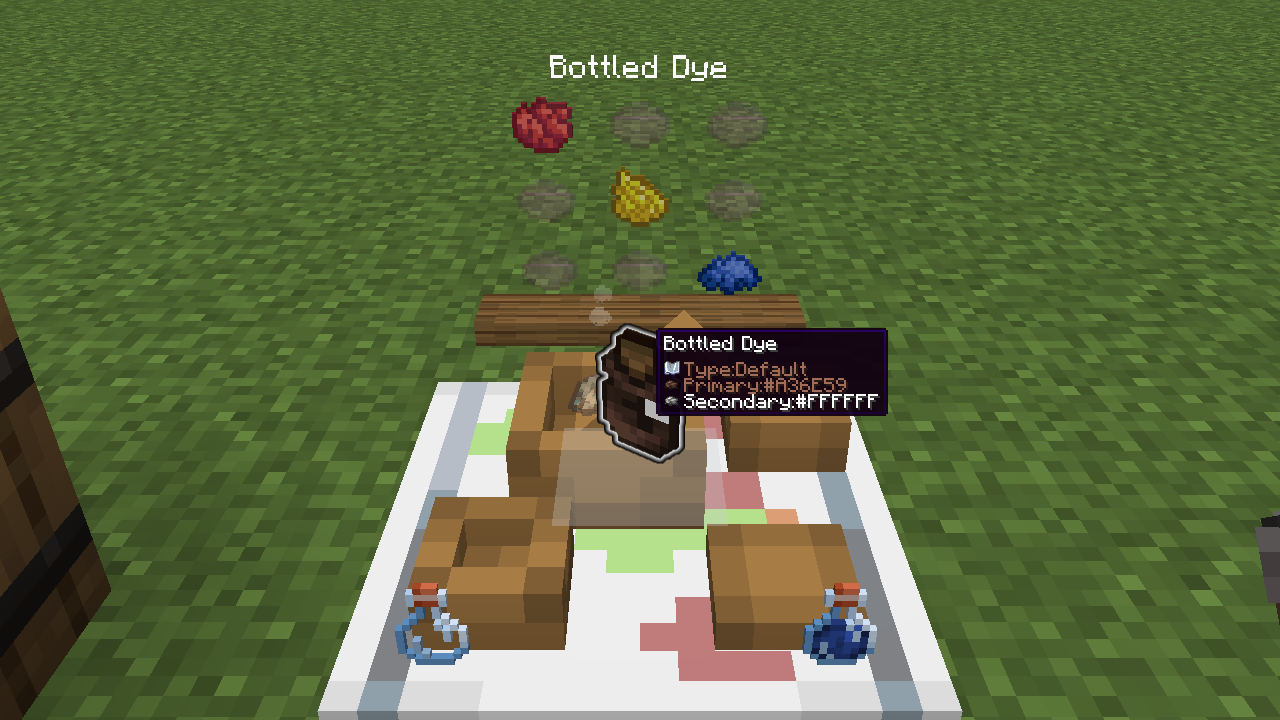
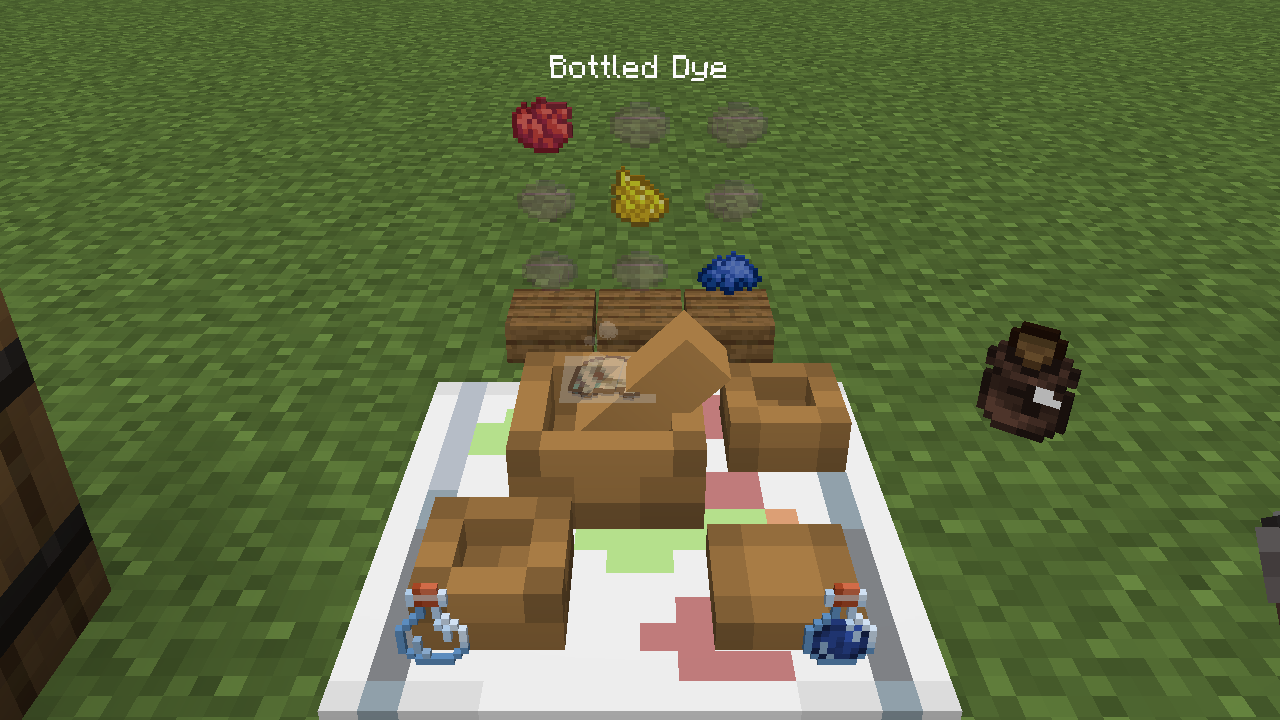
Dyemaking table: the result beside the table, the rack on three slabs; 0.1.4
The bottled dye hovered over the core in the pot and covered its place;
it hovers beside the table now. The stretched shelf under the dyes is
three spruce half slabs at their own proportions.

Claude-Session: https://claude.ai/code/session_01BQEUemARYQYQZPmNhrfX44

Changed region(s): [[0.3438, 0.3972, 0.7188, 0.7333], [0.75, 0.4278, 0.8438, 0.6111]]

diff --git a/README.md b/README.md
@@ -17,7 +17,7 @@ world**, with no menu screen.
   across and the cloth on the loom grows. When the clock runs out, the cloth hovers beside the loom with the quality the
   rows earned, as Weavers Paradise reckons it.
 - **Dyemaking table.** The dyes stand in a rack of three by three behind the table, the empty bottle and the water at its
-  front corners, the dye core in the pot. When they make a dye the pot steams and the bottled dye hovers over the table;
+  front corners, the dye core in the pot. When they make a dye the pot steams and the bottled dye hovers beside the table;
   taking it uses up the ingredients as the mod's own screen does.
 - **Nothing replaced.** The items stay in the blocks' own inventories; the blocks keep working by themselves (the jenny
   spins, the clock of a weaving runs, hoppers reach them). Sneaking + use keeps the mod's own screens. The mod adds no
